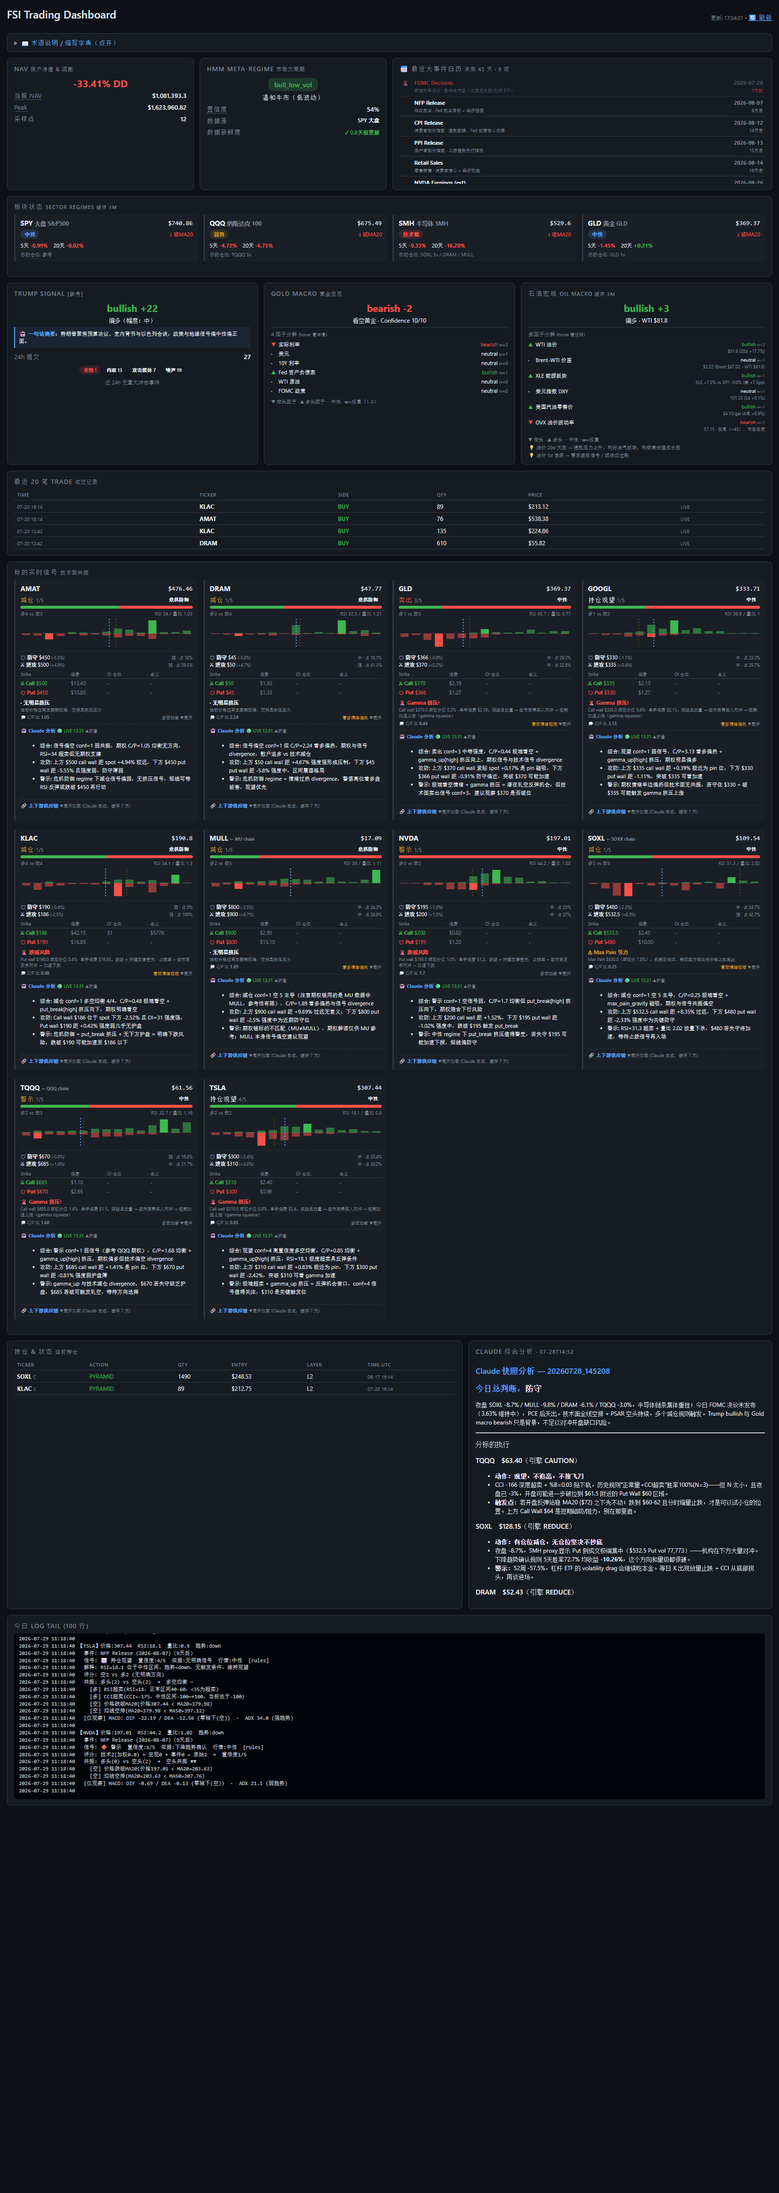
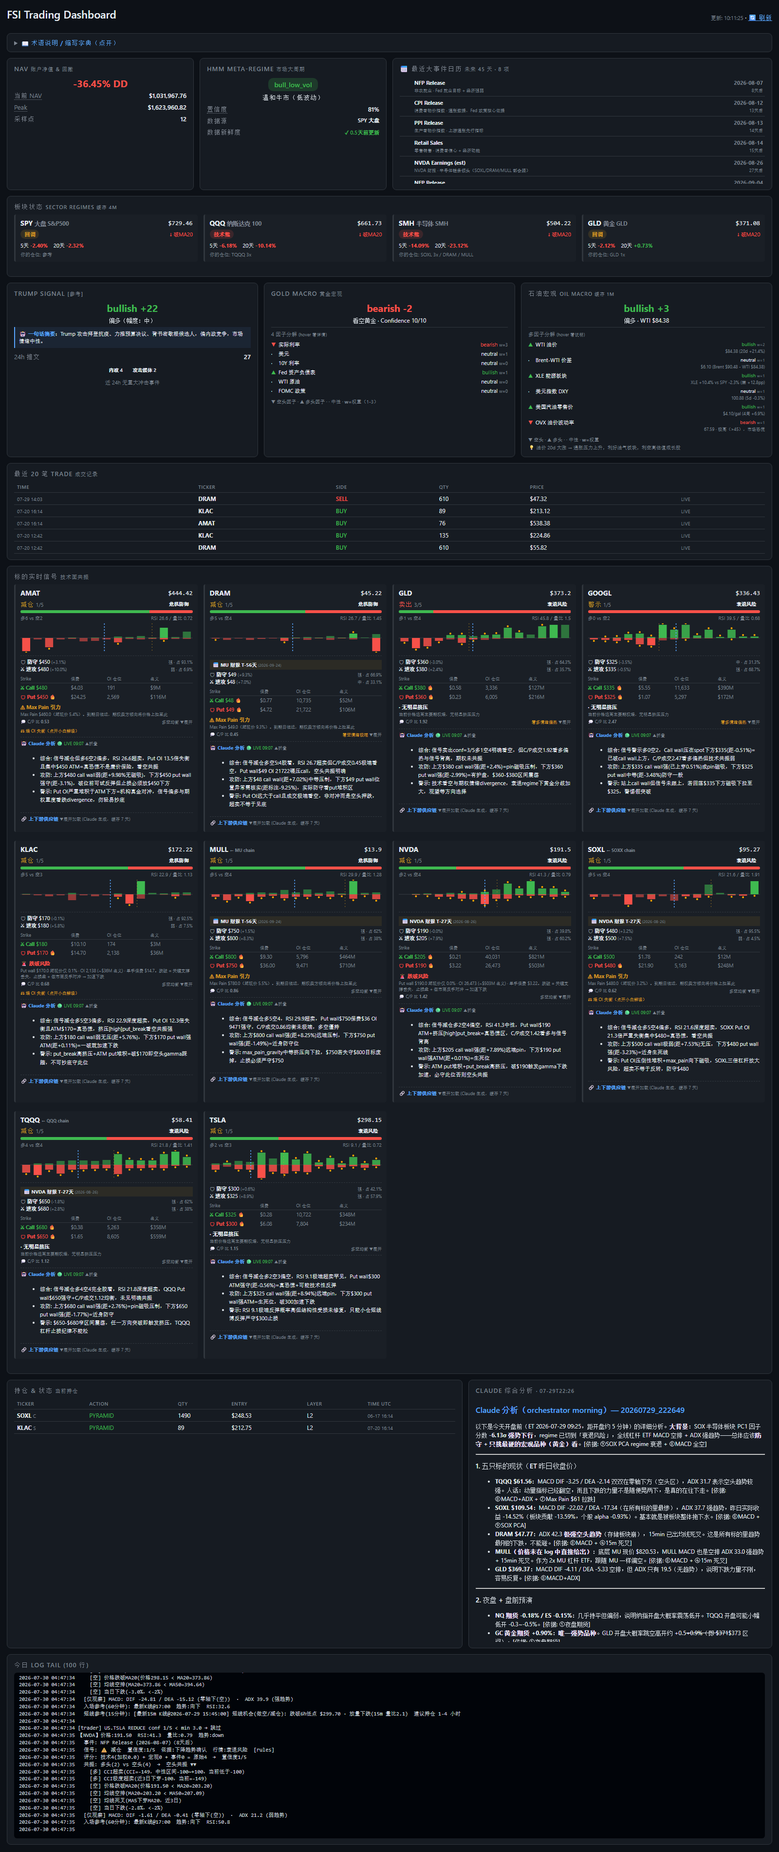
feat(webui): 多层供应链图 + 大单高亮 + 财报徽章
三合一升级：
1. 供应链蜘蛛网向外扩展 (depth=2)：下游的下游、上游的上游都可见
2. 期权大单 OI 高亮 + 异常成交
3. 财报徽章 + 期权跨财报警示

【多层供应链图】
- api_supply_chain_graph(ticker, depth=2) BFS 展开供应链
- 每条边带 reason（来自 Claude note），前端 hover 显示：
  例: "TSM → NVDA · 供应关系 · 独家代工 H100/H200 先进制程 GPU"
- NVDA depth=2 = 1 center + 16 layer-1 + 73 layer-2 = 90 节点 / 233 边
- 未 cache 的 ticker 自动后台 Claude 拉取（返 pending 列表）
- 前端按钮改成「🕸 1 层 / 🕸 2 层」两个入口
- URL ?graph=NVDA&depth=2 直达

【大单高亮】
- distribution 每 strike 新增字段:
  · call_big / put_big  = OI ≥ 5000 OR notional ≥ $30M
  · call_unusual_vol / put_unusual_vol = vol > 2K AND vol > 0.5×OI
- 迷你 SVG 图：大单柱加深填充 + 顶部橙色圆点
- 攻防位表格：wall 是大单时显示 🔥

【财报徽章】
- _compute_ticker_options 拿 option_walls._TICKER_EARNINGS/_ETF_EARNINGS_LINKS
- 60 天窗口（比 option_walls 的 30 天宽）
- 新字段: earnings_stock / earnings_date / days_to_earnings /
         expiry_covers_earnings / implied_move_pct (仅单股 ≤14 天时算)
- 前端 renderOptAnalysis 顶部加徽章:
  · T ≤ 3 天 🚨 红 / ≤ 14 天 ⚠ 黄 / ≤ 60 天 📅 灰
  · 显示 T-N 天 + 财报日期 + IM ±X% + 「含财报风险」
- SOXL/TQQQ 均显示 NVDA 财报 T-27 天（2026-08-26）

【edge kind color】
之前 supply/customer 边颜色相同（灰色），现在按 kind 上色：
  supply=红 / customer=绿 / peer=橙 —— 一眼分类

【文档】
- docs/dashboard-full.png 更新
- docs/supply-chain-nvda-depth2.png 新增（深度 2 蜘蛛网）
- README 加多层图 + 大单 + 财报 说明

diff --git a/agents/dashboard.html b/agents/dashboard.html
@@ -523,9 +523,17 @@ function renderMiniWall(opt) {
     const w = barW * 0.7;
     const isCW = d.strike === opt.call_wall_strike;
     const isPW = d.strike === opt.put_wall_strike;
-    const cc = isCW ? '#3fb950' : 'rgba(63,185,80,0.55)';
-    const pc = isPW ? '#f85149' : 'rgba(248,81,73,0.55)';
-    return `<rect x="${x}%" y="${H/2 - cH}" width="${w}%" height="${cH}" fill="${cc}"><title>$${d.strike} C=${d.call_vol}${isCW?' ★':''}</title></rect><rect x="${x}%" y="${H/2}" width="${w}%" height="${pH}" fill="${pc}"><title>$${d.strike} P=${d.put_vol}${isPW?' ★':''}</title></rect>`;
+    // 大单柱：更亮的填充 + 顶部/底部 🔥 标注
+    const cBig = d.call_big, pBig = d.put_big;
+    const cc = isCW ? '#3fb950' : (cBig ? 'rgba(63,185,80,0.85)' : 'rgba(63,185,80,0.55)');
+    const pc = isPW ? '#f85149' : (pBig ? 'rgba(248,81,73,0.85)' : 'rgba(248,81,73,0.55)');
+    const cUnusual = d.call_unusual_vol, pUnusual = d.put_unusual_vol;
+    const cTip = `$${d.strike} C 成交=${d.call_vol} OI=${d.call_oi}${isCW?' ★wall':''}${cBig?' 🔥大单OI':''}${cUnusual?' ⚡异常成交':''}`;
+    const pTip = `$${d.strike} P 成交=${d.put_vol} OI=${d.put_oi}${isPW?' ★wall':''}${pBig?' 🔥大单OI':''}${pUnusual?' ⚡异常成交':''}`;
+    // Big-OI 顶部小三角
+    const cMark = cBig ? `<circle cx="${x + w/2}%" cy="${H/2 - cH - 3}" r="2" fill="#ffa500"><title>🔥 大单 OI ≥5K 或名义 ≥$30M</title></circle>` : '';
+    const pMark = pBig ? `<circle cx="${x + w/2}%" cy="${H/2 + pH + 3}" r="2" fill="#ffa500"><title>🔥 大单 OI ≥5K 或名义 ≥$30M</title></circle>` : '';
+    return `<rect x="${x}%" y="${H/2 - cH}" width="${w}%" height="${cH}" fill="${cc}"><title>${cTip}</title></rect><rect x="${x}%" y="${H/2}" width="${w}%" height="${pH}" fill="${pc}"><title>${pTip}</title></rect>${cMark}${pMark}`;
   }).join('');
   return `<svg width="100%" height="${H}" style="display:block; margin-top:4px">
     <line x1="0" y1="${H/2}" x2="100%" y2="${H/2}" stroke="rgba(125,133,144,0.3)" stroke-width="1"/>
@@ -556,15 +564,35 @@ function renderOptAnalysis(opt) {
   const urgIcon = r.urgency === 'high' ? '🚨' : (r.urgency === 'medium' ? '⚠' : '·');
   const RISK_ZH = { gamma_up:'Gamma 挤压↑', put_break:'跌破风险', max_pain_gravity:'Max Pain 引力', none:'无明显挤压' };
   const cpCls = (sm.cp_ratio >= 1.8 || sm.cp_ratio <= 0.5) ? 'warn' : 'muted';
+  // 大单标记：wall 本身 OI ≥ 5K 或 notional ≥ $30M → 🔥
+  const bigThresh = w => (w.oi >= 5000) || (w.notional >= 30_000_000);
+  const bigMark = w => bigThresh(w) ? '<span title="OI ≥ 5K 或名义 ≥ $30M：机构大单" style="color:#ffa500">🔥</span>' : '';
   // 4 列表格：行权价 / 保费 / 仓位OI / 名义
   const tableRow = (label, cls, wall) => `
     <div style="display:grid; grid-template-columns:1.4fr 1fr 1.2fr 1.2fr; gap:2px; padding:2px 0" title="${wall.notional ? '名义 = OI × 100 × 行权价（做市商总敞口估算）' : ''}">
-      <span class="${cls}"><b>${label}</b> $${wall.strike || '-'}</span>
+      <span class="${cls}"><b>${label}</b> $${wall.strike || '-'} ${bigMark(wall)}</span>
       <span style="color:var(--muted)" title="bid/ask mid（无则 lastPrice）：单手合约成本 = 保费×100">${fmtPrem(wall.prem)}</span>
       <span style="color:var(--muted)" title="Open Interest — 未平仓合约数（真实持仓，比 volume 更有指向）">${fmtOI(wall.oi)}</span>
       <span style="color:var(--muted)" title="名义敞口 = OI×100×行权价">${fmtNotional(wall.notional)}</span>
     </div>`;
+  // 财报徽章
+  const eDays = opt.days_to_earnings;
+  const eDate = opt.earnings_date;
+  const eStock = opt.earnings_stock;
+  const im = opt.implied_move_pct;
+  const covExp = opt.expiry_covers_earnings;
+  let earningsBadge = '';
+  if (eDate) {
+    const urgCls2 = eDays <= 3 ? 'bad' : (eDays <= 14 ? 'warn' : 'muted');
+    const urgIcon2 = eDays <= 3 ? '🚨' : (eDays <= 14 ? '⚠' : '📅');
+    const imText = im ? ` · IM ±${im}%` : '';
+    const covText = covExp ? ' · 期权跨财报（含财报风险）' : '';
+    earningsBadge = `<div style="margin:3px 0; padding:3px 6px; background:rgba(210,153,34,0.1); border-left:2px solid var(--warn); font-size:10px" title="财报日会引发 ±IM% 隐含波动。期权跨财报=保费贵但对冲有效；不跨=纯 pre-earnings 投机">
+      ${urgIcon2} <b class="${urgCls2}">${eStock} 财报 T-${eDays}天</b> <small style="color:var(--muted)">(${eDate})${imText}${covText}</small>
+    </div>`;
+  }
   return `<div class="opt-analysis" style="border-top:1px dashed var(--border); margin-top:6px; padding-top:5px; font-size:10.5px; line-height:1.4">
+    ${earningsBadge}
     <div style="display:flex; justify-content:space-between">
       <span>🛡 <b>防守</b> $${d.strike || '-'} <small>(${d.dist_pct > 0 ? '-' : '+'}${Math.abs(d.dist_pct||0).toFixed(1)}%)</small></span>
       <span class="${dCls}"><small>${d.strength || '-'} · 占 ${d.share || 0}%</small></span>
@@ -721,7 +749,11 @@ function renderSupplyChain(sc, ticker) {
   const srcBadge = sc.source === 'claude+fmp'
     ? '<span class="badge ok" style="font-size:8px">Claude+FMP ✓</span>'
     : '<span class="badge muted" style="font-size:8px">Claude only</span>';
-  const graphBtn = ticker ? `<button onclick="showSupplyChainGraph('${ticker}')" style="background:transparent; border:1px solid var(--blue); color:var(--blue); font-size:10px; padding:2px 8px; border-radius:4px; cursor:pointer; margin-left:auto">🕸 蜘蛛网全图</button>` : '';
+  const graphBtn = ticker ? `
+    <span style="margin-left:auto; display:flex; gap:4px">
+      <button onclick="showSupplyChainGraph('${ticker}',1)" style="background:transparent; border:1px solid var(--blue); color:var(--blue); font-size:10px; padding:2px 8px; border-radius:4px; cursor:pointer" title="直接邻居（快）">🕸 1 层</button>
+      <button onclick="showSupplyChainGraph('${ticker}',2)" style="background:transparent; border:1px solid var(--blue); color:var(--blue); font-size:10px; padding:2px 8px; border-radius:4px; cursor:pointer" title="向外 2 跳（需先 warm cache，边 hover 看理由）">🕸 2 层</button>
+    </span>` : '';
   return `<div style="font-size:10px; padding:5px 0">
     <div style="margin-bottom:5px; display:flex; align-items:center; gap:6px; flex-wrap:wrap"><small style="color:var(--muted)"><b>${sc.sector||''}</b> — ${sc.business||''}</small> ${srcBadge} ${graphBtn}</div>
     <div style="display:grid; grid-template-columns:1fr 1fr; gap:8px">
@@ -928,14 +960,16 @@ if (new URLSearchParams(location.search).get('expand') === 'all') {
     });
   }, 3000);
 }
-// Preview mode: URL ?graph=NVDA → 加载后自动弹出该 ticker 的蜘蛛网图（for README 截图）
-const _graphTk = new URLSearchParams(location.search).get('graph');
+// Preview mode: URL ?graph=NVDA&depth=2 → 自动弹出蜘蛛网图（for README 截图）
+const _params = new URLSearchParams(location.search);
+const _graphTk = _params.get('graph');
+const _graphDepth = parseInt(_params.get('depth') || '1', 10);
 if (_graphTk) {
   fetchJson(`/api/supply_chain?ticker=${encodeURIComponent(_graphTk)}`).then(r => {
     if (r && !r.error) {
       window.__scCache = window.__scCache || {};
       window.__scCache[_graphTk] = { ...r, ticker: _graphTk };
-      setTimeout(() => showSupplyChainGraph(_graphTk), 500);
+      setTimeout(() => showSupplyChainGraph(_graphTk, _graphDepth), 500);
     }
   });
 }
@@ -943,35 +977,72 @@ if (_graphTk) {
 // ── 供应链 D3 蜘蛛网 modal ──
 window.__scCache = window.__scCache || {};
 
-function showSupplyChainGraph(ticker) {
-  const sc = window.__scCache[ticker];
-  if (!sc) { alert('供应链数据未加载。请先展开卡片让数据加载完成。'); return; }
+// depth=1: 使用本地 window.__scCache[ticker]（快）
+// depth>=2: 从 /api/supply_chain_graph 拉多层图
+async function showSupplyChainGraph(ticker, depth = 1) {
+  let nodes, links, meta = {};
+
+  if (depth <= 1) {
+    const sc = window.__scCache[ticker];
+    if (!sc) { alert('供应链数据未加载。请先展开卡片让数据加载完成。'); return; }
+    meta = { sector: sc.sector, business: sc.business };
+    ({ nodes, links } = _buildSingleHop(ticker, sc));
+  } else {
+    // fetch multi-hop
+    document.getElementById('sc-modal').style.display = 'flex';
+    document.getElementById('sc-modal-title').innerHTML = `<b>${ticker}</b> 加载 depth=${depth} 图… <small style="color:var(--muted)">首次可能 30-60s（若 layer-1 ticker 未 cache）</small>`;
+    document.getElementById('sc-modal-graph').innerHTML = '<div style="padding:40px; text-align:center; color:var(--muted)">🔄 BFS 展开中…</div>';
+    const r = await fetchJson(`/api/supply_chain_graph?ticker=${encodeURIComponent(ticker)}&depth=${depth}`);
+    if (!r || r.error) { alert('多层图加载失败: ' + (r && r.error || '')); return; }
+    nodes = r.nodes;
+    links = r.edges.map(e => ({source: e.source, target: e.target, weight: 30,
+                                 confidence: e.confidence, kind: e.kind, reason: e.reason}));
+    // 转换 node 结构（BFS API 返 group 已含 up/down/peer/center，size 需根据 layer 计算）
+    nodes.forEach(n => {
+      n.label = n.name || n.id;
+      n.size = n.group === 'center' ? 26 : (n.layer === 1 ? 12 : 8);
+    });
+    meta = { pending: r.pending, layers: {}};
+    nodes.forEach(n => meta.layers[n.layer] = (meta.layers[n.layer] || 0) + 1);
+  }
+
   const modal = document.getElementById('sc-modal');
   modal.style.display = 'flex';
+  const layerStat = meta.layers ? ` · 层分布 ${Object.entries(meta.layers).map(([l,c]) => `L${l}:${c}`).join(' / ')}` : '';
+  const pendingStat = meta.pending && meta.pending.length ? ` · <span class="warn">⏳ ${meta.pending.length} 个待加载</span>` : '';
   document.getElementById('sc-modal-title').innerHTML =
-    `<b>${ticker}</b> 上下游关联网络 <small style="color:var(--muted); font-weight:normal">· ${sc.sector||''} · ${sc.business||''}</small>`;
+    `<b>${ticker}</b> 上下游关联网络 (depth=${depth})` +
+    (meta.sector ? ` <small style="color:var(--muted); font-weight:normal">· ${meta.sector} · ${meta.business||''}</small>` : '') +
+    `<small style="color:var(--muted); font-weight:normal">${layerStat}${pendingStat}</small>`;
 
-  // 构造 nodes + links
-  const nodes = [{id: ticker, group: 'center', size: 26, label: ticker, note: sc.business || '', confidence: 'high'}];
+  _renderGraphSVG(nodes, links);
+}
+
+function _buildSingleHop(ticker, sc) {
+  const nodes = [{id: ticker, group: 'center', size: 26, label: ticker, note: sc.business || '', confidence: 'high', layer: 0}];
   const links = [];
   (sc.upstream || []).forEach((x, i) => {
     const id = x.ticker || `up_${i}_${x.name}`;
-    nodes.push({id, group: 'up', size: 8 + (x.weight || 30) / 6, label: x.name,
+    nodes.push({id, group: 'up', size: 8 + (x.weight || 30) / 6, label: x.name, layer: 1,
                 ticker: x.ticker, note: x.note || '', weight: x.weight, confidence: x.confidence});
-    links.push({source: id, target: ticker, weight: x.weight || 30, confidence: x.confidence, kind: 'supply'});
+    links.push({source: id, target: ticker, weight: x.weight || 30, confidence: x.confidence, kind: 'supply', reason: x.note});
   });
   (sc.downstream || []).forEach((x, i) => {
     const id = x.ticker || `dn_${i}_${x.name}`;
-    nodes.push({id, group: 'down', size: 8 + (x.weight || 30) / 6, label: x.name,
+    nodes.push({id, group: 'down', size: 8 + (x.weight || 30) / 6, label: x.name, layer: 1,
                 ticker: x.ticker, note: x.note || '', weight: x.weight, confidence: x.confidence});
-    links.push({source: ticker, target: id, weight: x.weight || 30, confidence: x.confidence, kind: 'customer'});
+    links.push({source: ticker, target: id, weight: x.weight || 30, confidence: x.confidence, kind: 'customer', reason: x.note});
   });
   (sc.peers || []).forEach((x, i) => {
     const id = x.ticker || `pr_${i}_${x.name}`;
-    nodes.push({id, group: 'peer', size: 10, label: x.name, ticker: x.ticker,
+    nodes.push({id, group: 'peer', size: 10, label: x.name, ticker: x.ticker, layer: 1,
                 note: x.note || '', confidence: x.confidence, fmp: x.fmp_verified});
-    links.push({source: ticker, target: id, weight: 20, confidence: x.confidence, kind: 'peer'});
+    links.push({source: ticker, target: id, weight: 20, confidence: x.confidence, kind: 'peer', reason: x.note});
   });
+  return { nodes, links };
+}
+
+function _renderGraphSVG(nodes, links) {
 
   const container = document.getElementById('sc-modal-graph');
   container.innerHTML = '';
@@ -995,10 +1066,17 @@ function showSupplyChainGraph(ticker) {
   // 边
   const link = svg.append('g')
     .selectAll('line').data(links).join('line')
-      .attr('stroke', d => d.kind === 'peer' ? '#d29922' : (d.confidence === 'high' ? '#8b949e' : '#484f58'))
+      .attr('stroke', d => d.kind === 'peer' ? '#d29922' : (d.kind === 'supply' ? '#f85149' : '#3fb950'))
       .attr('stroke-width', d => 0.8 + (d.weight || 20) / 30)
       .attr('stroke-dasharray', d => d.confidence === 'high' ? null : '4,3')
-      .attr('opacity', 0.7);
+      .attr('opacity', 0.65)
+      .style('cursor', 'help');
+  link.append('title').text(d => {
+    const src = typeof d.source === 'object' ? d.source.id : d.source;
+    const tgt = typeof d.target === 'object' ? d.target.id : d.target;
+    const kindZh = {supply: '供应关系', customer: '客户关系', peer: '同行竞争'}[d.kind] || d.kind;
+    return `${src} → ${tgt}\n关系: ${kindZh}\n理由: ${d.reason || '(未说明)'}\nconfidence: ${d.confidence || 'n/a'}`;
+  });
 
   // 节点组
   const node = svg.append('g')

diff --git a/agents/webui.py b/agents/webui.py
@@ -890,6 +890,95 @@ def _compute_supply_chain(ticker: str) -> dict:
     return result
 
 
+def api_supply_chain_graph(ticker: str, depth: int = 2) -> dict:
+    """多层供应链图（BFS）。返回 nodes/edges 供 D3 蜘蛛网渲染。
+
+    每条边带 `reason`（来自 Claude 输出的 note），供 hover 显示。
+    layer 记录节点到 root 的最短跳数。未 cache 的 ticker 触发后台 Claude 拉取，
+    本次请求返 `pending: [...]`，前端可稍后再请求补图。
+    """
+    import threading
+    root = (ticker or "").upper().strip()
+    if not root:
+        return {"error": "invalid ticker"}
+    max_depth = max(1, min(int(depth or 2), 3))  # 限 1-3 层
+
+    nodes: dict = {}
+    edges: list = []
+    seen_edges: set = set()
+    visited: set = {root}
+
+    def _add_node(nid, **kw):
+        if nid in nodes:
+            # 记住最小 layer
+            if kw.get("layer", 99) < nodes[nid].get("layer", 99):
+                nodes[nid]["layer"] = kw["layer"]
+            return
+        nodes[nid] = {"id": nid, **kw}
+
+    _add_node(root, name=root, ticker=root, layer=0, group="center", confidence="high")
+
+    queue = [(root, 0)]
+    pending: list = []
+    while queue:
+        cur, layer = queue.pop(0)
+        if layer >= max_depth:
+            continue
+        cache_path = _WEBUI_CACHE_DIR / f"supply_chain_{cur}.json"
+        if not cache_path.exists():
+            if cur != root and cur not in pending:
+                pending.append(cur)
+                # 后台触发 Claude 拉取（非阻塞）
+                threading.Thread(
+                    target=lambda t=cur: _compute_supply_chain(t), daemon=True
+                ).start()
+            continue
+        try:
+            sc = json.loads(cache_path.read_text(encoding="utf-8"))
+        except Exception:
+            continue
+        if "error" in sc:
+            continue
+
+        for kind, items in (
+            ("supply",   sc.get("upstream",   []) or []),
+            ("customer", sc.get("downstream", []) or []),
+            ("peer",     sc.get("peers",      []) or []),
+        ):
+            for x in items:
+                tk = (x.get("ticker") or "").upper().strip()
+                if not tk:
+                    continue  # 跳过没有 ticker 的（无法多跳）
+                grp = {"supply": "up", "customer": "down", "peer": "peer"}[kind]
+                _add_node(tk, name=x.get("name"), ticker=tk, layer=layer + 1,
+                          group=grp, confidence=x.get("confidence"),
+                          weight=x.get("weight"))
+                # 边方向: supply = supplier → consumer, customer = seller → customer, peer 双向（用 target 做展示）
+                src, tgt = (tk, cur) if kind == "supply" else (cur, tk)
+                key = (src, tgt, kind)
+                if key not in seen_edges:
+                    seen_edges.add(key)
+                    edges.append({
+                        "source":     src,
+                        "target":     tgt,
+                        "reason":     x.get("note", ""),
+                        "kind":       kind,
+                        "confidence": x.get("confidence"),
+                    })
+                if tk not in visited:
+                    visited.add(tk)
+                    queue.append((tk, layer + 1))
+
+    return {
+        "root":    root,
+        "depth":   max_depth,
+        "nodes":   list(nodes.values()),
+        "edges":   edges,
+        "pending": pending,   # 前端可延迟重试补图
+        "generated_at": datetime.now(timezone.utc).isoformat(),
+    }
+
+
 def _cfg_helper(key: str, default: str = "") -> str:
     """Wrapper for config._cfg to avoid import-order issues."""
     try:
@@ -1330,6 +1419,19 @@ def _compute_ticker_options() -> dict:
                 if loss < best_pain:
                     best_pain, best_s = loss, s
 
+            # 大单标记（在 wall 计算之前，方便前端拿到 flag）
+            # 阈值: OI ≥ 5000 手 OR notional ≥ $30M （wall 级重要）
+            for d in dist:
+                cn = d["call_oi"] * 100 * d["strike"]
+                pn = d["put_oi"]  * 100 * d["strike"]
+                d["call_big"] = bool(d["call_oi"] >= 5000 or cn >= 30_000_000)
+                d["put_big"]  = bool(d["put_oi"]  >= 5000 or pn >= 30_000_000)
+                # 异常成交（vol 相对 OI 明显偏高 = 今日新建仓/大单扫单）
+                d["call_unusual_vol"] = bool(d["call_vol"] > 2000 and d["call_oi"] > 0
+                                             and d["call_vol"] > 0.5 * d["call_oi"])
+                d["put_unusual_vol"]  = bool(d["put_vol"]  > 2000 and d["put_oi"] > 0
+                                             and d["put_vol"] > 0.5 * d["put_oi"])
+
             # 分析优先用 OI 墙（fallback vol）
             an_call = call_wall_oi or call_wall
             an_put  = put_wall_oi  or put_wall
@@ -1358,6 +1460,44 @@ def _compute_ticker_options() -> dict:
                     f"{side}_wall_notional": int(notional),
                 }
 
+            # 财报上下文：从 option_walls._next_earnings_for 拿到 (股票, 财报日, 天数)
+            earnings_meta = {}
+            try:
+                from option_walls import _TICKER_EARNINGS, _ETF_EARNINGS_LINKS, get_earnings_implied_move
+                from datetime import date as _date, datetime as _dt
+                today = _date.today()
+                # 关联财报：先看是不是单股（直接查），再看是不是 ETF（走 links）
+                candidate_stocks = [tk] if tk in _TICKER_EARNINGS else list(_ETF_EARNINGS_LINKS.get(tk, []))
+                best = None
+                for e_stock in candidate_stocks:
+                    for d_str in _TICKER_EARNINGS.get(e_stock, []):
+                        try:
+                            d_obj = _dt.strptime(d_str, "%Y-%m-%d").date()
+                        except Exception:
+                            continue
+                        days = (d_obj - today).days
+                        if 0 <= days <= 60:  # 60 天窗口（比 option_walls 的 30 天宽）
+                            if best is None or days < best[2]:
+                                best = (e_stock, d_str, days)
+                if best:
+                    e_stock, e_date, e_days = best
+                    earnings_meta = {
+                        "earnings_stock":     e_stock,
+                        "earnings_date":      e_date,
+                        "days_to_earnings":   e_days,
+                        "expiry_covers_earnings": exp >= e_date,
+                    }
+                    # 隐含波动幅度（ATM straddle 反推），只在 ≤ 14 天且是单股时算
+                    if e_days <= 14 and tk in ("MU", "NVDA"):
+                        try:
+                            im = get_earnings_implied_move(tk, earnings_date=e_date)
+                            if im and im.get("implied_move_pct"):
+                                earnings_meta["implied_move_pct"] = round(im["implied_move_pct"], 2)
+                        except Exception:
+                            pass
+            except Exception:
+                pass
+
             out["tickers"][tk] = {
                 "underlying":       underlying,
                 "spot":             round(spot, 2),
@@ -1371,6 +1511,7 @@ def _compute_ticker_options() -> dict:
                 "put_wall_oi_strike":  put_wall_oi["strike"]  if put_wall_oi  else None,
                 "max_pain":         best_s,
                 **analysis,
+                **earnings_meta,
             }
         except Exception as e:
             out["tickers"][tk] = {"underlying": underlying, "error": str(e)[:100]}
@@ -1529,6 +1670,10 @@ class Handler(BaseHTTPRequestHandler):
             elif path == "/api/supply_chain":
                 tk = qs.get("ticker", [""])[0]
                 self._json(api_supply_chain(tk))
+            elif path == "/api/supply_chain_graph":
+                tk = qs.get("ticker", [""])[0]
+                dp = int(qs.get("depth", ["2"])[0])
+                self._json(api_supply_chain_graph(tk, depth=dp))
             else:
                 self.send_error(404, f"route not found: {path}")
         except Exception as e:
